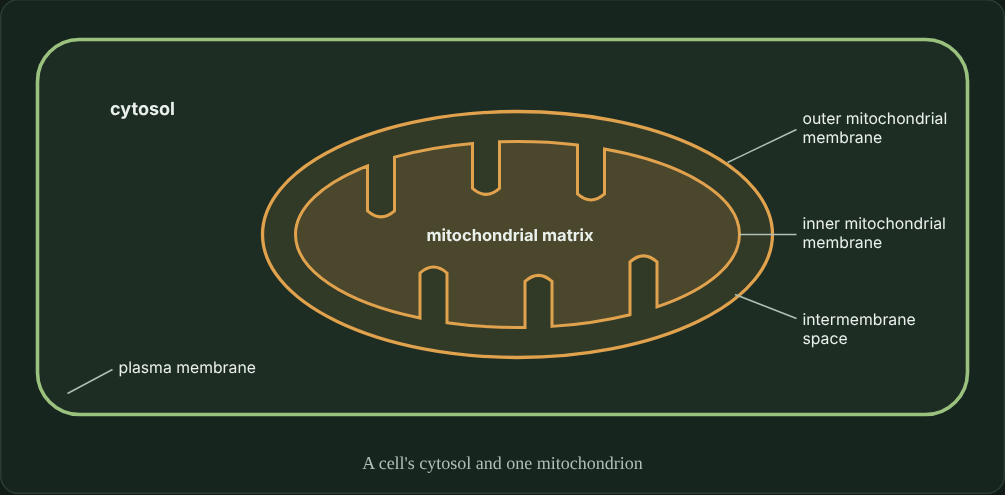
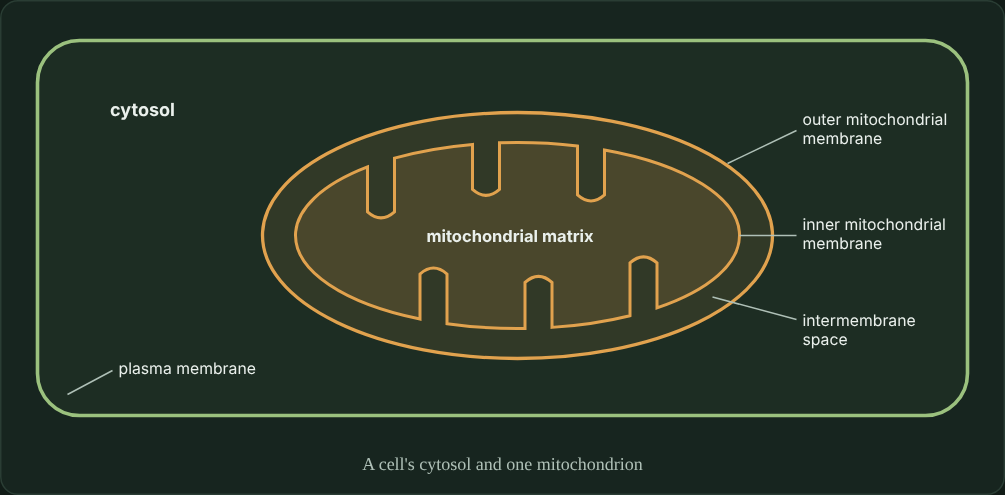
Modules 6-8: Module 7 review round 3 (0 MAJOR) minor fixes
Claude-Session: https://claude.ai/code/session_014xLH3wtAak4hTFyKB1tr6P

diff --git a/biol130_modules6-8/work/cards_m7.py b/biol130_modules6-8/work/cards_m7.py
@@ -12,17 +12,17 @@ CARDS = with_mod(7, [
           "Glucose can be oxidized by O2 in a flame or inside a cell. " + DIAG,
           box("Burning releases glucose's energy almost entirely as heat and light.",
               "Inside cells, glucose is oxidized at body temperature through a long series of enzyme-catalysed reactions."),
-          [S("In B, O2 accepts electrons at each small step of the staircase rather than all at once as in A.", False,
-             "Glucose's electrons go first to NAD+ and FAD; O2 takes them only at the very end of the electron transport chain."),
+          [S("The small size of each drop in B is what lets these reactions run quickly at body temperature.", False,
+             "A drop's size is its ΔG, which doesn't set the rate; the reactions run quickly at body temperature because "
+             "enzymes lower their activation energy (나)."),
            S("A route with twice as many steps as B, each smaller, would release twice as much total free energy per glucose.", False,
              "The start and end molecules fix the total; more steps change only how much of it can be captured."),
-           S("Releasing the energy in small steps, as in B, lets the cell trap much of it in carriers and ATP instead of "
-             "losing it all at once as heat.", True,
+           S("Releasing energy in small steps, as in B, lets the cell capture much of it in carriers and ATP rather than as heat.", True,
              "Small steps release amounts that enzymes can couple to reducing NAD+ or making ATP; the share that isn't "
              "trapped is still released as heat."),
            ],
-          "Energy is released in steps · O2 is the final electron acceptor",
-          ["m7_stepwise_energy_release", "m7_o2_final_acceptor"], points=3,
+          "Energy is released in steps · Enzymes lower activation energy (Module 6)",
+          ["m7_stepwise_energy_release", "m6_enzymes_lower_ea"], points=3,
           diagram="m7_energy_staircase"),
     combo(OV, "Who loses the electrons?", READ,
           box("C6H12O6 + 6 O2 → 6 CO2 + 6 H2O", "NAD+ + 2 e- + H+ → NADH"),
@@ -41,7 +41,8 @@ CARDS = with_mod(7, [
           [S("(가) is substrate-level phosphorylation, and it needs neither O2 nor a membrane.", True,
              "The phosphate goes straight from a substrate to ADP in one enzyme reaction, so no gradient, membrane or O2 is involved."),
            S("Per glucose, the process in (가) makes most of the cell's ATP, since it happens in more than one stage.", False,
-             "Substrate-level phosphorylation gives only about 4 of roughly 32 ATP per glucose; (나), oxidative phosphorylation, makes about 28."),
+             "Substrate-level phosphorylation nets only about 4 of roughly 32 ATP per glucose (a net 2 in glycolysis, 2 in the "
+             "cycle); (나), oxidative phosphorylation, makes about 28."),
            S("The process in (나), like (가), makes ATP by moving a phosphate group straight from a fuel-derived molecule onto ADP.", False,
              "ATP synthase joins ADP to inorganic phosphate, driven by H+ flowing down the gradient; no fuel-derived molecule "
              "hands it a phosphate."),
@@ -58,8 +59,7 @@ CARDS = with_mod(7, [
           "Stages of respiration · Fermentation",
           ["m7_glycolysis_overview", "m7_pyruvate_oxidation_step", "m7_cac_cycle_regenerates", "m7_o2_final_acceptor",
            "m7_fermentation_purpose"], points=3),
-    tf(OV, "Of the stages of respiration, the first to release radioactive CO2 runs in the mitochondrial matrix, not in the "
-           "cytosol where glycolysis breaks the glucose down.", True,
+    tf(OV, "Of the stages of respiration, the first to release radioactive CO2 runs in the mitochondrial matrix.", True,
        "Glycolysis in the cytosol releases no CO2; the first CO2 is released when pyruvate is oxidized to acetyl-CoA in the matrix.",
        "Stage locations · Source of CO2", ["m7_stage_locations", "m7_exhaled_co2", "m7_pyruvate_oxidation_step"], points=2,
        box="A liver cell like the one in the diagram is given glucose whose carbons are all radioactive.",
@@ -103,15 +103,15 @@ CARDS = with_mod(7, [
        "FAD → FADH2", ["NADH → NAD+", "Glucose → CO2", "Pyruvate → acetyl-CoA + CO2", "Succinate → fumarate"],
        "FAD gains two electrons (with two H+) to become FADH2: a reduction. The others lose electrons, so they are oxidations.",
        "Reduction is gain of electrons · Electron carriers", ["m7_redox_definitions", "m7_carriers_nad_fad"], points=1),
-    mc(OV, "If electrons could pass from NADH straight to O2 in one step, what would happen to the energy released?",
-       "The same total, released as heat, with no H+ pumped",
-       ["More would be released in total, since no carrier takes a share",
-        "None would be released, since O2 can't take electrons from NADH",
-        "The same total would be passed straight to ATP synthase",
-        "Less would be released in total, since the path is shorter"],
-       "The start (NADH) and end (H2O) fix the total; passing electrons through the chain's carriers in small steps is what "
-       "lets complexes I, III and IV use the energy to pump H+ instead of losing it as heat.",
-       "Stepwise energy release", ["m7_stepwise_energy_release"], points=2),
+    mc(OV, "If electrons could pass from NADH straight to O2 in one step, what would the cell lose compared with the normal chain?",
+       "The H+ gradient, since no complex would pump H+",
+       ["Nothing, since the same total energy is released",
+        "The water normally made at complex IV",
+        "The NAD+ it needs, since NADH could no longer be oxidized",
+        "Some of the total energy, since the path is shorter"],
+       "The total released is fixed by NADH and water, but only passing through complexes I, III and IV lets that energy "
+       "pump H+; in one step it would all be lost as heat, leaving no gradient for ATP synthase.",
+       "Stepwise energy release · Proton pumping", ["m7_stepwise_energy_release", "m7_proton_pumping"], points=2),
     mc(OV, "A carbon atom from glucose ends up in exhaled CO2. In which order could it pass through the stages of respiration?",
        "Glycolysis → pyruvate oxidation → citric acid cycle",
        ["Glycolysis → citric acid cycle → pyruvate oxidation",
@@ -127,7 +127,8 @@ CARDS = with_mod(7, [
          "FDG-PET scans find many cancers by imaging where FDG, a radioactive look-alike of glucose, collects in the body." + STEM_TAIL,
          box("Hexokinase phosphorylates FDG just as it phosphorylates glucose, but the next glycolysis enzyme can't act on FDG 6-phosphate.",
              "Many tumours take up far more glucose than most of the tissue around them."),
-         [S("FDG collects in cells because GLUT carriers move it into cells but not back out of them.", False,
+         [S("FDG collects in tumour cells because their GLUT carriers move it inward only, so even FDG that hexokinase "
+            "hasn't yet phosphorylated can't leave.", False,
             "GLUT carriers work by facilitated diffusion in either direction. FDG is held in the cell because FDG 6-phosphate is "
             "charged and no longer fits GLUT; (가) adds that glycolysis can't use it up either."),
           S("Tumours in (나) show up as bright spots against the tissue around them, because more FDG enters their cells and "
@@ -148,12 +149,12 @@ CARDS = with_mod(7, [
            S("Starting from fructose 1,6-bisphosphate as in (나), the net yield would rise to 4 ATP, since the ATP spent in "
              "steps 1 and 3 has already been paid.", True,
              "Steps 1 and 3 are skipped, so the 4 ATP from the payoff phase are all net gain."),
-           S("Steps 7 and 10 are substrate-level phosphorylation: an enzyme moves a phosphate from 1,3-bisphosphoglycerate or "
-             "phosphoenolpyruvate straight onto ADP.", True,
-             "No membrane or gradient is involved; the phosphate is transferred within one enzyme reaction."),
+           S("Starting from fructose 1,6-bisphosphate as in (나) leaves the NADH made at step 6 unchanged, at 2 NADH per "
+             "fructose 1,6-bisphosphate.", True,
+             "Step 6 still oxidizes both G3P, reducing 2 NAD+; only the ATP tally changes."),
            ],
-          "Glycolysis net yield · Investment and payoff phases · Substrate-level phosphorylation",
-          ["m7_glycolysis_net_yield", "m7_glycolysis_phase1", "m7_glycolysis_phase3", "m7_substrate_level"], points=3,
+          "Glycolysis net yield · Investment and payoff phases",
+          ["m7_glycolysis_net_yield", "m7_glycolysis_phase1", "m7_glycolysis_phase3"], points=3,
           diagram="m7_glycolysis_map"),
     combo(GL, "What fluoride does to mouth bacteria",
           "Mouth bacteria such as Streptococcus mutans ferment sugars and release acid that dissolves tooth enamel. Assume "
@@ -188,12 +189,14 @@ CARDS = with_mod(7, [
        "Glycolysis: 6C → 2 × 3C · Electron carriers", ["m7_glycolysis_overview", "m7_carriers_nad_fad"], points=1,
        box="Glycolysis turns one glucose into two pyruvate molecules."),
     tf(GL, "Spending 2 ATP in phase 1 is wasteful: a cell that split glucose without first phosphorylating it would net more ATP per glucose.", False,
-       "The 2 ATP are an investment, not a waste: the phosphates trap glucose and destabilize it so it can be split, and the "
-       "payoff phase returns 4 ATP by passing phosphate groups to ADP. Without them the sugar isn't split and the payoff "
-       "steps have nothing to act on.",
+       "The 2 ATP are an investment, not a waste: the phosphates destabilize glucose so it can be split, and each "
+       "three-carbon half keeps a phase-1 phosphate that step 10 later hands back to ADP. A cell that skipped them would "
+       "lose step 10's 2 ATP as well (and its unphosphorylated sugars wouldn't fit the payoff enzymes), so it could not "
+       "net more than 2.",
        "Glycolysis phase 1 · Phosphorylation traps and destabilizes glucose",
        ["m7_glycolysis_phase1", "m7_phosphorylation_traps_glucose"], points=2,
-       box="In phase 1, glucose gets two phosphate groups from ATP before it is split.", diagram="m7_glycolysis_map"),
+       box="In phase 1 (steps 1-3 in the diagram), glucose gets two phosphate groups from ATP before it is split at step 4.",
+       diagram="m7_glycolysis_map"),
     tf(GL, "If step 3 were skipped and fructose 6-phosphate could be split directly, both three-carbon products would still carry a phosphate.", False,
        "Fructose 6-phosphate has only one phosphate, so only one of the two pieces would carry it; adding the second "
        "phosphate in step 3 is what lets both halves continue.",
@@ -245,7 +248,7 @@ CARDS = with_mod(7, [
     mc(GL, "Glycolysis is thought to be one of the oldest metabolic pathways. Which statement about it is true and fits an "
            "origin before Earth's air held much O2?",
        "It runs in the cytosol and consumes no O2",
-       ["It needs O2 at its last step",
+       ["It needs the citric acid cycle to regenerate its NAD+",
         "It makes its ATP using a membrane H+ gradient",
         "Its enzymes work inside mitochondria",
         "It releases CO2 as it oxidizes glucose"],
@@ -328,8 +331,8 @@ CARDS = with_mod(7, [
            ("Pyruvate dehydrogenase complex", "Removes CO2 from pyruvate and joins what is left to coenzyme A"),
            ("α-Ketoglutarate", "A five-carbon intermediate that can leave the cycle to build amino acids")],
           "Pyruvate dehydrogenase makes acetyl-CoA, oxaloacetate accepts the acetyl group and is regenerated, NAD+ takes the "
-          "electrons released, GTP is the one energy carrier the cycle makes directly, and α-ketoglutarate is a branch "
-          "point for biosynthesis.",
+          "electrons released, GTP is the only ATP equivalent the cycle makes directly (by substrate-level phosphorylation), "
+          "and α-ketoglutarate is a branch point for biosynthesis.",
           "Pyruvate oxidation · Cycle intermediates · Electron carriers · Substrate-level phosphorylation",
           ["m7_pyruvate_oxidation_step", "m7_cac_cycle_regenerates", "m7_cac_intermediates_biosynthesis", "m7_carriers_nad_fad",
            "m7_substrate_level"],
@@ -382,10 +385,10 @@ CARDS = with_mod(7, [
        "Pyruvate oxidation · The cycle completes oxidation · Exhaled CO2",
        ["m7_pyruvate_oxidation_totals", "m7_cac_completes_oxidation", "m7_exhaled_co2"], points=2, ordered=True, key_index=2,
        diagram="m7_cac_cycle"),
-    mc(PC, "100 acetyl-CoA enter the citric acid cycle while the cell draws 10 α-ketoglutarate out to make glutamate. How "
-           "many oxaloacetate (or molecules that become it) must the cell add to keep its oxaloacetate pool steady?",
+    mc(PC, "100 acetyl-CoA enter the citric acid cycle while the cell draws 10 succinyl-CoA out to make heme. How many "
+           "oxaloacetate (or molecules that become it) must the cell add to keep its oxaloacetate pool steady?",
        "10", ["0", "10", "90", "100", "110"],
-       "Each turn regenerates the oxaloacetate it uses, except when an intermediate is drawn off: each α-ketoglutarate "
+       "Each turn regenerates the oxaloacetate it uses, except when an intermediate is drawn off: each succinyl-CoA "
        "removed is one oxaloacetate that won't be remade, so 10 must be added.",
        "Cycle intermediates feed other pathways · Oxaloacetate is regenerated",
        ["m7_cac_intermediates_biosynthesis", "m7_cac_cycle_regenerates"], points=2, ordered=True, key_index=1,
@@ -397,8 +400,9 @@ CARDS = with_mod(7, [
         "Fats are converted to pyruvate, which the cells can then oxidize",
         "Fats supply NAD+, which restores the faulty enzyme's activity",
         "Fats are fermented to lactate, which then feeds the cycle"],
-       "Beta-oxidation turns fatty acids into acetyl-CoA, so fat's carbons reach the citric acid cycle without passing "
-       "through the faulty pyruvate dehydrogenase step.",
+       "Beta-oxidation turns fatty acids into acetyl-CoA, and the liver turns some of it into ketone bodies that the brain "
+       "converts back to acetyl-CoA; either way fat's carbons reach the citric acid cycle without passing through the "
+       "faulty pyruvate dehydrogenase step.",
        "Pyruvate dehydrogenase complex · Beta-oxidation · Real-world: pyruvate dehydrogenase deficiency",
        ["m7_pyruvate_oxidation_step", "m7_beta_oxidation"], points=2),
     mc(PC, "A drug blocks the carrier protein that moves pyruvate across the inner mitochondrial membrane. What happens first?",
@@ -481,7 +485,7 @@ CARDS = with_mod(7, [
           ["m7_etc_location_components", "m7_atp_synthase", "m7_chemiosmotic_coupling"], points=4),
     match(OX, "If one part were missing", "Match each missing or blocked component to what happens in respiring mitochondria.",
           "Missing or blocked", "What happens",
-          [("Coenzyme Q", "Neither complex I nor complex II can pass electrons on"),
+          [("Coenzyme Q", "Complexes I and II stay loaded with electrons, while complex III and every carrier after it get none"),
            ("Cytochrome c", "Complex III stays loaded with electrons, but complex IV gets none"),
            ("O2", "Every carrier in the chain stays reduced"),
            ("The Fo channel of ATP synthase", "H+ piles up in the intermembrane space and electron flow slows")],
@@ -489,8 +493,9 @@ CARDS = with_mod(7, [
           "main path back for H+, so each gap blocks or slows electron flow at a different point.",
           "ETC components · O2 the final acceptor · Chemiosmotic coupling",
           ["m7_etc_location_components", "m7_o2_final_acceptor", "m7_chemiosmotic_coupling"], points=3),
-    tf(OX, "These cells make heat because UCP1 lets H+ flow back into the matrix without passing through ATP synthase.", True,
-       "UCP1 short-circuits the gradient, so the energy that would have made ATP is released as heat.",
+    tf(OX, "UCP1 makes heat by letting H+ flow from the matrix out into the intermembrane space, bypassing ATP synthase.", False,
+       "H+ is pumped into the intermembrane space, where it is high; UCP1 lets it flow back down its gradient into the "
+       "matrix, releasing the energy as heat.",
        "Chemiosmotic coupling · Real-world: brown fat", ["m7_chemiosmotic_coupling", "m7_proton_gradient"], points=1,
        box="Newborns keep warm partly with brown fat, whose mitochondria contain a protein called UCP1 in the inner membrane."),
     tf(OX, "In cells where CO occupies complex IV, NADH builds up, because electrons back up behind the block and the chain accepts fewer of them from NADH.", True,
@@ -555,12 +560,12 @@ CARDS = with_mod(7, [
        "Proton pumping · ATP yield", ["m7_proton_pumping", "m7_atp_yield_total"], points=2,
        ordered=True, key_index=1, diagram="m7_etc_membrane"),
     mc(OX, "Brown fat's UCP1 and the drug DNP both make mitochondria release energy as heat. How do they differ?",
-       "UCP1 is a regulated protein; DNP ferries H+ itself",
+       "UCP1 is a regulated protein, while DNP is a small molecule that ferries H+",
        ["UCP1 blocks complex IV, while DNP blocks the Fo channel",
         "UCP1 makes ATP faster, while DNP makes only heat",
         "UCP1 pumps H+ out, while DNP pumps H+ into the matrix",
-        "UCP1 works in the cytosol, while DNP works in the matrix"],
-       "Both let H+ back into the matrix without passing through ATP synthase; UCP1 is a regulated channel protein in the "
+        "UCP1 lets H+ leak back into the matrix, while DNP blocks ATP synthase directly"],
+       "Both let H+ back into the matrix without passing through ATP synthase; UCP1 is a regulated carrier protein in the "
        "inner membrane, while DNP ferries H+ through the lipid bilayer.",
        "Chemiosmotic coupling · Proton gradient · Real-world: brown fat and DNP", ["m7_chemiosmotic_coupling", "m7_proton_gradient"],
        points=2),
@@ -605,7 +610,8 @@ CARDS = with_mod(7, [
               "glucose into ethanol and releasing it through their gills.",
               "In most vertebrates, muscle working without O2 makes lactate, which builds up in the body."),
           [S("Making ethanol lets the fish get rid of fermentation's end product, whereas lactate would build up and acidify the body as in (나).", True,
-             "Ethanol diffuses out across the gills; lactic acid stays in the body, so a long fermentation would be fatal."),
+             "Ethanol diffuses out across the gills; lactate stays in the body, so months of lactic acid fermentation would "
+             "build up a dangerous acid load."),
            S("Ethanol fermentation gives the fish more ATP per glucose than lactic acid fermentation, which is why they survive so long.", False,
              "Both fermentations net only glycolysis's 2 ATP per glucose; the advantage is disposal of the end product."),
            S("Per glucose, the fish's ethanol fermentation releases fewer CO2 than lactic acid fermentation does.", False,
@@ -661,8 +667,9 @@ CARDS = with_mod(7, [
        "Ethanol fermentation · Real-world: bottle-conditioned beer", ["m7_ethanol_fermentation", "m7_fermentation_purpose"],
        points=2, box="Bottle-conditioned beer gets its fizz when yeast ferment a little extra sugar after the bottle is sealed."),
     tf(FE, "Part of the extra O2 is used to oxidize the lactate made during the sprint, by way of pyruvate.", True,
-       "Lactate is turned back into pyruvate, and pyruvate is oxidized in mitochondria, which needs O2 at the end of the "
-       "electron transport chain; that is one reason breathing stays fast after the sprint.",
+       "Lactate is turned back into pyruvate and oxidized in mitochondria, which needs O2 at the end of the electron "
+       "transport chain, so some of the O2 used after the sprint goes to clearing lactate, alongside refilling "
+       "phosphocreatine, ATP and O2 stores.",
        "Lactic acid fermentation · O2 is the final acceptor · Real-world: breathing hard after a sprint",
        ["m7_lactic_acid_fermentation", "m7_o2_final_acceptor"], points=2,
        box="After an all-out sprint, a runner keeps breathing hard for several minutes."),
@@ -724,7 +731,7 @@ CARDS = with_mod(7, [
              "normal muscle glycogen.", True,
              "Only the liver can remove the phosphate (나) and release free glucose into the blood, so muscle glycogen can't stand in for it."),
            S("Glycogen is broken down a whole branch at a time, and each branch enters glycolysis as one molecule.", False,
-             "Glucose units are cut off one at a time and enter glycolysis as glucose 6-phosphate, past step 1."),
+             "Glucose units are cut off one at a time, and most enter glycolysis as glucose 6-phosphate, past step 1."),
            S("Muscle glycogen serves that muscle's own contraction, because the glucose phosphate it releases can't leave the cell.", True,
              "Phosphorylated sugar is trapped inside the cell, so muscle keeps its glycogen's glucose for itself."),
            ],
@@ -754,9 +761,11 @@ CARDS = with_mod(7, [
           "entirely.",
           "Several fuels feed respiration · Beta-oxidation · Proteins as fuel",
           ["m7_respiration_fuels", "m7_beta_oxidation", "m7_proteins_as_fuel", "m7_glycogen_starch_storage"], points=3),
-    tf(MI, "These patients tire quickly in intense exercise, but their blood glucose between meals stays normal.", True,
-       "Muscle glycogen fuels the muscle itself, so losing it limits hard exercise; blood glucose depends on liver glycogen, which works normally.",
-       "Liver vs muscle glycogen · Real-world: McArdle disease", ["m7_liver_vs_muscle_glycogen"],
+    tf(MI, "During a brief all-out effort, these patients' blood lactate rises much less than a healthy person's.", True,
+       "With no glycogen to break down, their muscles run less glycolysis in intense effort, so less pyruvate is reduced to "
+       "lactate; this flat lactate response is a classic sign of the disease.",
+       "Muscle glycogen fuels the muscle · Lactic acid fermentation · Real-world: McArdle disease",
+       ["m7_liver_vs_muscle_glycogen", "m7_lactic_acid_fermentation"],
        points=2,
        box="In McArdle disease, muscle cells can't break down their glycogen, while the liver's glycogen use is normal."),
     tf(MI, "Only the glucose half can be used for energy, because glycolysis begins with glucose.", False,
@@ -798,7 +807,7 @@ CARDS = with_mod(7, [
        "Fat holds more energy per gram, but its breakdown and oxidation supply ATP more slowly than glycogen's glucose, "
        "so pace drops once muscle glycogen is gone.",
        "Glycogen and fat as fuels · Real-world: hitting the wall",
-       ["m7_liver_vs_muscle_glycogen", "m7_lipids_energy_rich"], points=2),
+       ["m7_lipids_energy_rich", "m7_beta_oxidation"], points=2),
     mc(MI, "Wort made from malted barley is rich in maltose, with a little glucose. A brewer's yeast strain takes up maltose "
            "but lacks maltase, the enzyme that splits it. In wort with no O2, what happens?",
        "It ferments the little glucose present, then stops with maltose left",

diff --git a/biol130_modules6-8/work/diagrams_m7.py b/biol130_modules6-8/work/diagrams_m7.py
@@ -32,7 +32,7 @@ def m7_cell_compartments():
     p.append(lines(520, 66, ["outer mitochondrial", "membrane"], size=10.5, anchor="start"))
     p.append(line(478, 140, 516, 140, stroke=SOFT, width=1))
     p.append(lines(520, 136, ["inner mitochondrial", "membrane"], size=10.5, anchor="start"))
-    p.append(line(475, 180, 516, 196, stroke=SOFT, width=1))
+    p.append(line(460, 181, 516, 196, stroke=SOFT, width=1))
     p.append(lines(520, 200, ["intermembrane", "space"], size=10.5, anchor="start"))
     p.append(line(60, 230, 30, 246, stroke=SOFT, width=1))
     p.append(text(64, 232, "plasma membrane", size=10.5, anchor="start"))
